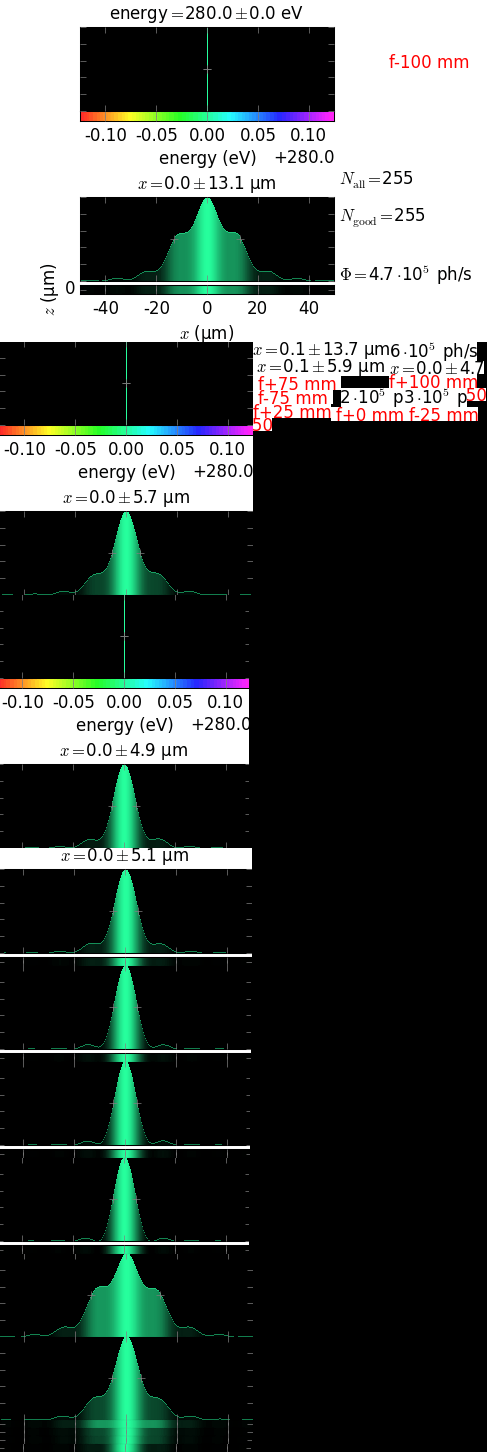
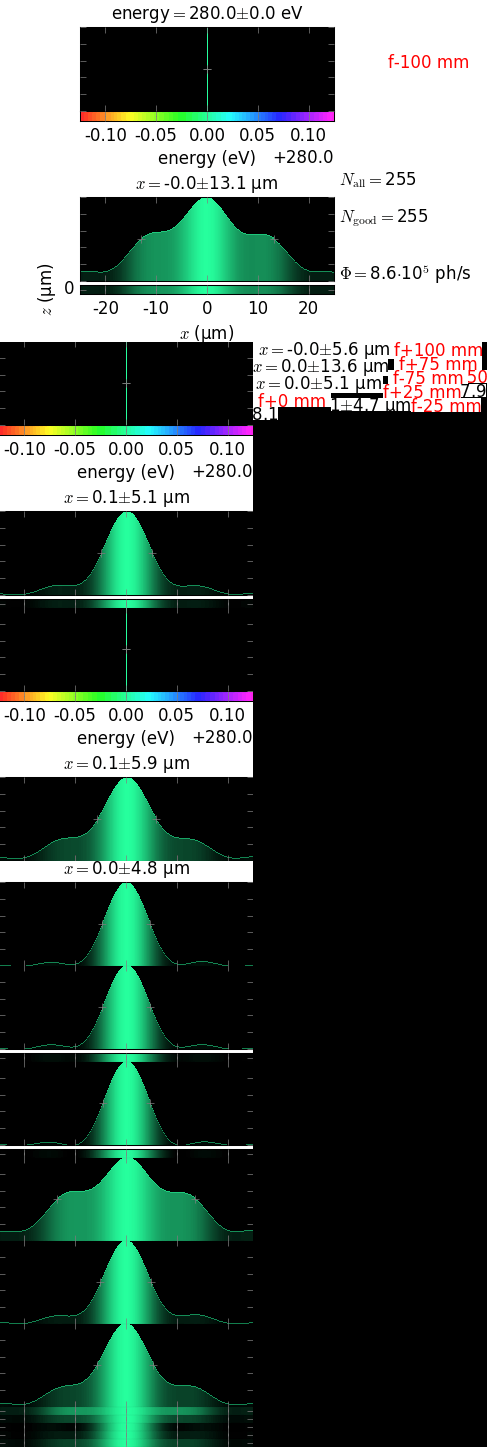
corrected animations for one SoftiMAX/CXI case

diff --git a/doc/_images/cxi-hS/b_anim.js b/doc/_images/cxi-hS/b_anim.js
@@ -1,1 +1,1 @@
-b_timeline = [{"delay": 1000, "blit": [[0, 0, 487, 342, 0, 0]]}, {"delay": 1000, "blit": [[0, 342, 253, 253, 81, 28], [253, 390, 80, 14, 389, 54], [389, 342, 88, 19, 384, 265], [0, 1436, 252, 8, 81, 286]]}, {"delay": 1000, "blit": [[0, 595, 249, 253, 83, 28], [253, 418, 19, 13, 406, 55], [0, 1444, 251, 8, 82, 286], [391, 344, 9, 13, 386, 267]]}, {"delay": 1000, "blit": [[409, 407, 69, 14, 394, 54], [0, 1062, 250, 96, 82, 198], [393, 171, 10, 13, 385, 267], [60, 743, 95, 13, 143, 176]]}, {"delay": 1000, "blit": [[331, 407, 78, 14, 390, 54], [389, 361, 95, 13, 143, 176], [0, 1158, 249, 96, 83, 198], [369, 267, 10, 13, 385, 267]]}, {"delay": 1000, "blit": [[253, 404, 78, 14, 390, 54], [60, 743, 95, 13, 143, 176], [0, 966, 251, 96, 82, 198], [369, 267, 10, 13, 385, 267]]}, {"delay": 1000, "blit": [[467, 388, 19, 13, 411, 55], [0, 848, 252, 118, 82, 176], [404, 388, 63, 19, 385, 265], [457, 267, 14, 15, 458, 267]]}, {"delay": 1000, "blit": [[253, 376, 88, 14, 385, 54], [253, 359, 136, 17, 139, 176], [0, 1337, 253, 83, 81, 198], [341, 388, 63, 19, 385, 265], [458, 267, 14, 15, 458, 267], [0, 1428, 253, 8, 81, 286]]}, {"delay": 2000, "blit": [[389, 374, 88, 14, 385, 54], [253, 342, 136, 17, 139, 176], [0, 1254, 253, 83, 81, 198], [0, 1420, 253, 8, 81, 286]]}, {"delay": 1000, "blit": [[253, 376, 88, 14, 385, 54], [253, 359, 136, 17, 139, 176], [0, 1337, 253, 83, 81, 198], [341, 388, 63, 19, 385, 265], [458, 267, 14, 15, 458, 267], [0, 1428, 253, 8, 81, 286]]}, {"delay": 1000, "blit": [[467, 388, 19, 13, 411, 55], [0, 848, 252, 118, 82, 176], [404, 388, 63, 19, 385, 265], [457, 267, 14, 15, 458, 267]]}, {"delay": 1000, "blit": [[253, 404, 78, 14, 390, 54], [60, 743, 95, 13, 143, 176], [0, 966, 251, 96, 82, 198], [369, 267, 10, 13, 385, 267]]}, {"delay": 1000, "blit": [[331, 407, 78, 14, 390, 54], [389, 361, 95, 13, 143, 176], [0, 1158, 249, 96, 83, 198], [369, 267, 10, 13, 385, 267]]}, {"delay": 1000, "blit": [[409, 407, 69, 14, 394, 54], [0, 1062, 250, 96, 82, 198], [393, 171, 10, 13, 385, 267], [60, 743, 95, 13, 143, 176]]}, {"delay": 1000, "blit": [[0, 595, 249, 253, 83, 28], [253, 418, 19, 13, 406, 55], [0, 1444, 251, 8, 82, 286], [391, 344, 9, 13, 386, 267]]}, {"delay": 1000, "blit": [[0, 342, 253, 253, 81, 28], [253, 390, 80, 14, 389, 54], [389, 342, 88, 19, 384, 265], [0, 1436, 252, 8, 81, 286]]}, {"delay": 1000, "blit": [[0, 0, 487, 342, 0, 0]]}]
+b_timeline = [{"delay": 1000, "blit": [[0, 0, 487, 342, 0, 0]]}, {"delay": 1000, "blit": [[388, 370, 80, 14, 388, 54], [253, 342, 141, 17, 136, 176], [0, 1324, 253, 83, 81, 198], [0, 1439, 253, 8, 81, 286]]}, {"delay": 1000, "blit": [[468, 370, 19, 13, 406, 55], [253, 376, 130, 17, 142, 176], [0, 1241, 253, 83, 81, 198], [0, 1431, 253, 8, 81, 286]]}, {"delay": 1000, "blit": [[411, 398, 70, 14, 393, 54], [0, 861, 253, 105, 81, 176], [0, 1423, 253, 8, 81, 286], [386, 266, 10, 13, 386, 266]]}, {"delay": 1000, "blit": [[253, 393, 78, 14, 389, 54], [331, 398, 80, 13, 190, 176], [0, 1062, 253, 96, 81, 198], [353, 398, 10, 13, 386, 266]]}, {"delay": 1000, "blit": [[383, 384, 78, 14, 389, 54], [131, 861, 58, 13, 212, 176], [0, 966, 253, 96, 81, 198], [220, 176, 10, 13, 386, 266], [207, 28, 1, 83, 207, 28]]}, {"delay": 1000, "blit": [[0, 342, 253, 266, 81, 28], [468, 370, 19, 13, 410, 55], [253, 407, 25, 13, 371, 266]]}, {"delay": 1000, "blit": [[0, 608, 253, 253, 81, 28], [394, 356, 88, 14, 384, 54], [461, 384, 25, 13, 371, 266], [0, 1415, 253, 8, 81, 286]]}, {"delay": 2000, "blit": [[394, 342, 88, 14, 384, 54], [253, 359, 135, 17, 139, 176], [0, 1158, 253, 83, 81, 198], [387, 266, 9, 13, 387, 266], [0, 1407, 253, 8, 81, 286]]}, {"delay": 1000, "blit": [[0, 608, 253, 253, 81, 28], [394, 356, 88, 14, 384, 54], [461, 384, 25, 13, 371, 266], [0, 1415, 253, 8, 81, 286]]}, {"delay": 1000, "blit": [[0, 342, 253, 266, 81, 28], [468, 370, 19, 13, 410, 55], [253, 407, 25, 13, 371, 266]]}, {"delay": 1000, "blit": [[383, 384, 78, 14, 389, 54], [131, 861, 58, 13, 212, 176], [0, 966, 253, 96, 81, 198], [220, 176, 10, 13, 386, 266], [207, 28, 1, 83, 207, 28]]}, {"delay": 1000, "blit": [[253, 393, 78, 14, 389, 54], [331, 398, 80, 13, 190, 176], [0, 1062, 253, 96, 81, 198], [353, 398, 10, 13, 386, 266]]}, {"delay": 1000, "blit": [[411, 398, 70, 14, 393, 54], [0, 861, 253, 105, 81, 176], [0, 1423, 253, 8, 81, 286], [386, 266, 10, 13, 386, 266]]}, {"delay": 1000, "blit": [[468, 370, 19, 13, 406, 55], [253, 376, 130, 17, 142, 176], [0, 1241, 253, 83, 81, 198], [0, 1431, 253, 8, 81, 286]]}, {"delay": 1000, "blit": [[388, 370, 80, 14, 388, 54], [253, 342, 141, 17, 136, 176], [0, 1324, 253, 83, 81, 198], [0, 1439, 253, 8, 81, 286]]}, {"delay": 1000, "blit": [[0, 0, 487, 342, 0, 0]]}]

diff --git a/doc/_images/cxi-hS/s_anim.js b/doc/_images/cxi-hS/s_anim.js
@@ -1,1 +1,1 @@
-s_timeline = [{"delay": 1000, "blit": [[0, 0, 244, 171, 0, 0]]}, {"delay": 1000, "blit": [[0, 302, 130, 131, 38, 17], [160, 235, 45, 12, 192, 25], [160, 185, 49, 14, 190, 130]]}, {"delay": 1000, "blit": [[0, 171, 160, 131, 40, 17], [223, 171, 14, 12, 201, 25]]}, {"delay": 1000, "blit": [[205, 235, 39, 12, 195, 25], [0, 559, 148, 63, 52, 85]]}, {"delay": 1000, "blit": [[160, 259, 44, 12, 193, 25], [130, 302, 85, 63, 55, 85], [160, 199, 54, 12, 146, 131]]}, {"delay": 1000, "blit": [[160, 247, 44, 12, 193, 25], [0, 496, 158, 63, 42, 85]]}, {"delay": 1000, "blit": [[209, 171, 14, 12, 203, 25], [0, 433, 199, 63, 40, 85]]}, {"delay": 1000, "blit": [[160, 223, 49, 12, 190, 25], [0, 622, 130, 63, 38, 85], [160, 171, 49, 14, 190, 130]]}, {"delay": 2000, "blit": [[160, 211, 49, 12, 190, 25], [0, 685, 129, 63, 38, 85]]}, {"delay": 1000, "blit": [[160, 223, 49, 12, 190, 25], [0, 622, 130, 63, 38, 85], [160, 171, 49, 14, 190, 130]]}, {"delay": 1000, "blit": [[209, 171, 14, 12, 203, 25], [0, 433, 199, 63, 40, 85]]}, {"delay": 1000, "blit": [[160, 247, 44, 12, 193, 25], [0, 496, 158, 63, 42, 85]]}, {"delay": 1000, "blit": [[160, 259, 44, 12, 193, 25], [130, 302, 85, 63, 55, 85], [160, 199, 54, 12, 146, 131]]}, {"delay": 1000, "blit": [[205, 235, 39, 12, 195, 25], [0, 559, 148, 63, 52, 85]]}, {"delay": 1000, "blit": [[0, 171, 160, 131, 40, 17], [223, 171, 14, 12, 201, 25]]}, {"delay": 1000, "blit": [[0, 302, 130, 131, 38, 17], [160, 235, 45, 12, 192, 25], [160, 185, 49, 14, 190, 130]]}, {"delay": 1000, "blit": [[0, 0, 244, 171, 0, 0]]}]
+s_timeline = [{"delay": 1000, "blit": [[0, 0, 244, 171, 0, 0]]}, {"delay": 1000, "blit": [[132, 183, 45, 12, 192, 25], [0, 685, 132, 63, 38, 85]]}, {"delay": 1000, "blit": [[132, 207, 14, 12, 201, 25], [0, 622, 132, 63, 38, 85]]}, {"delay": 1000, "blit": [[176, 195, 40, 12, 194, 25], [0, 559, 132, 63, 38, 85], [191, 130, 10, 12, 191, 130]]}, {"delay": 1000, "blit": [[132, 195, 44, 12, 192, 25], [0, 748, 127, 63, 41, 85], [234, 195, 10, 12, 191, 130]]}, {"delay": 1000, "blit": [[177, 183, 44, 12, 192, 25], [0, 433, 162, 63, 38, 85], [65, 171, 2, 35, 103, 17]]}, {"delay": 1000, "blit": [[0, 302, 132, 131, 38, 17], [230, 171, 14, 12, 203, 25], [216, 195, 18, 12, 183, 130]]}, {"delay": 1000, "blit": [[0, 171, 132, 131, 38, 17], [181, 171, 49, 12, 190, 25], [221, 183, 18, 12, 183, 130]]}, {"delay": 2000, "blit": [[132, 171, 49, 12, 190, 25], [0, 496, 132, 63, 38, 85], [146, 207, 9, 12, 191, 130]]}, {"delay": 1000, "blit": [[0, 171, 132, 131, 38, 17], [181, 171, 49, 12, 190, 25], [221, 183, 18, 12, 183, 130]]}, {"delay": 1000, "blit": [[0, 302, 132, 131, 38, 17], [230, 171, 14, 12, 203, 25], [216, 195, 18, 12, 183, 130]]}, {"delay": 1000, "blit": [[177, 183, 44, 12, 192, 25], [0, 433, 162, 63, 38, 85], [65, 171, 2, 35, 103, 17]]}, {"delay": 1000, "blit": [[132, 195, 44, 12, 192, 25], [0, 748, 127, 63, 41, 85], [234, 195, 10, 12, 191, 130]]}, {"delay": 1000, "blit": [[176, 195, 40, 12, 194, 25], [0, 559, 132, 63, 38, 85], [191, 130, 10, 12, 191, 130]]}, {"delay": 1000, "blit": [[132, 207, 14, 12, 201, 25], [0, 622, 132, 63, 38, 85]]}, {"delay": 1000, "blit": [[132, 183, 45, 12, 192, 25], [0, 685, 132, 63, 38, 85]]}, {"delay": 1000, "blit": [[0, 0, 244, 171, 0, 0]]}]

diff --git a/doc/anim_encoder/anim_encoder.py b/doc/anim_encoder/anim_encoder.py
@@ -474,15 +474,15 @@ if __name__ == '__main__':
 #    fname = 'cxi-1D-2-hybr-1e6hor-0emit-0enSpread-monoE-08p-ExpFocusPhase*.png'
 #    fname = 'cxi-1D-2-hybr-1e6hor-0emit-0enSpread-monoE-08pf-ExpFocusPhaseFront*.png'
 
-#    dirName = r'c:\Ray-tracing\examples\withRaycing\44_SoftiCXI'
+    dirName = r'c:\Ray-tracing\examples\withRaycing\44_SoftiCXI'
 #    fname = '1D-1-rays-hor-0emit-0enSpread-monoE-08e-ExpFocus*.png'
-#    fname = '1D-2-hybr-1e6hor-0emit-0enSpread-monoE-08e-ExpFocus*.png'
+    fname = '1D-2-hybr-hor-0emit-0enSpread-monoE-08e-ExpFocus*.png'
 #    fname = '1D-3-wave-hor-0emit-0enSpread-monoE-08e-ExpFocus*.png'
 #    fname = 'XXIDOC-1D-2-hybr-hor-0emit-0enSpread-monoE--*.png'
 #    fname = 'XXIDOC-1D-2-hybr-hor-non0e-0enSpread-monoE--*.png'
 
-#    generate_animation(dirName, "s_"+fname, time_factor=20, endFrameDelay=2000)
-#    generate_animation(dirName, fname, time_factor=20, endFrameDelay=2000)
+    generate_animation(dirName, "s_"+fname, time_factor=20, endFrameDelay=2000)
+    generate_animation(dirName, fname, time_factor=20, endFrameDelay=2000)
 
 #    dirName = r'c:\Ray-tracing\examples\withRaycing\33_Warping'
 #    fname = 'rays-perfect-*.png'
@@ -497,9 +497,9 @@ if __name__ == '__main__':
 #    generate_animation(dirName, "s_"+fname, time_factor=20, endFrameDelay=2000)
 #    generate_animation(dirName, fname, time_factor=20, endFrameDelay=2000)
 
-    dirName = r'c:\Ray-tracing\examples\withRaycing\11_Waves'
-#    fname = '2 - DS Propagation Rays -*.png'
-    fname = '3 - DS Propagation Wave -*.png'
-
-    generate_animation(dirName, "s_"+fname, time_factor=10, endFrameDelay=1000)
-    generate_animation(dirName, fname, time_factor=10, endFrameDelay=1000)
+#    dirName = r'c:\Ray-tracing\examples\withRaycing\11_Waves'
+##    fname = '2 - DS Propagation Rays -*.png'
+#    fname = '3 - DS Propagation Wave -*.png'
+#
+#    generate_animation(dirName, "s_"+fname, time_factor=10, endFrameDelay=1000)
+#    generate_animation(dirName, fname, time_factor=10, endFrameDelay=1000)
